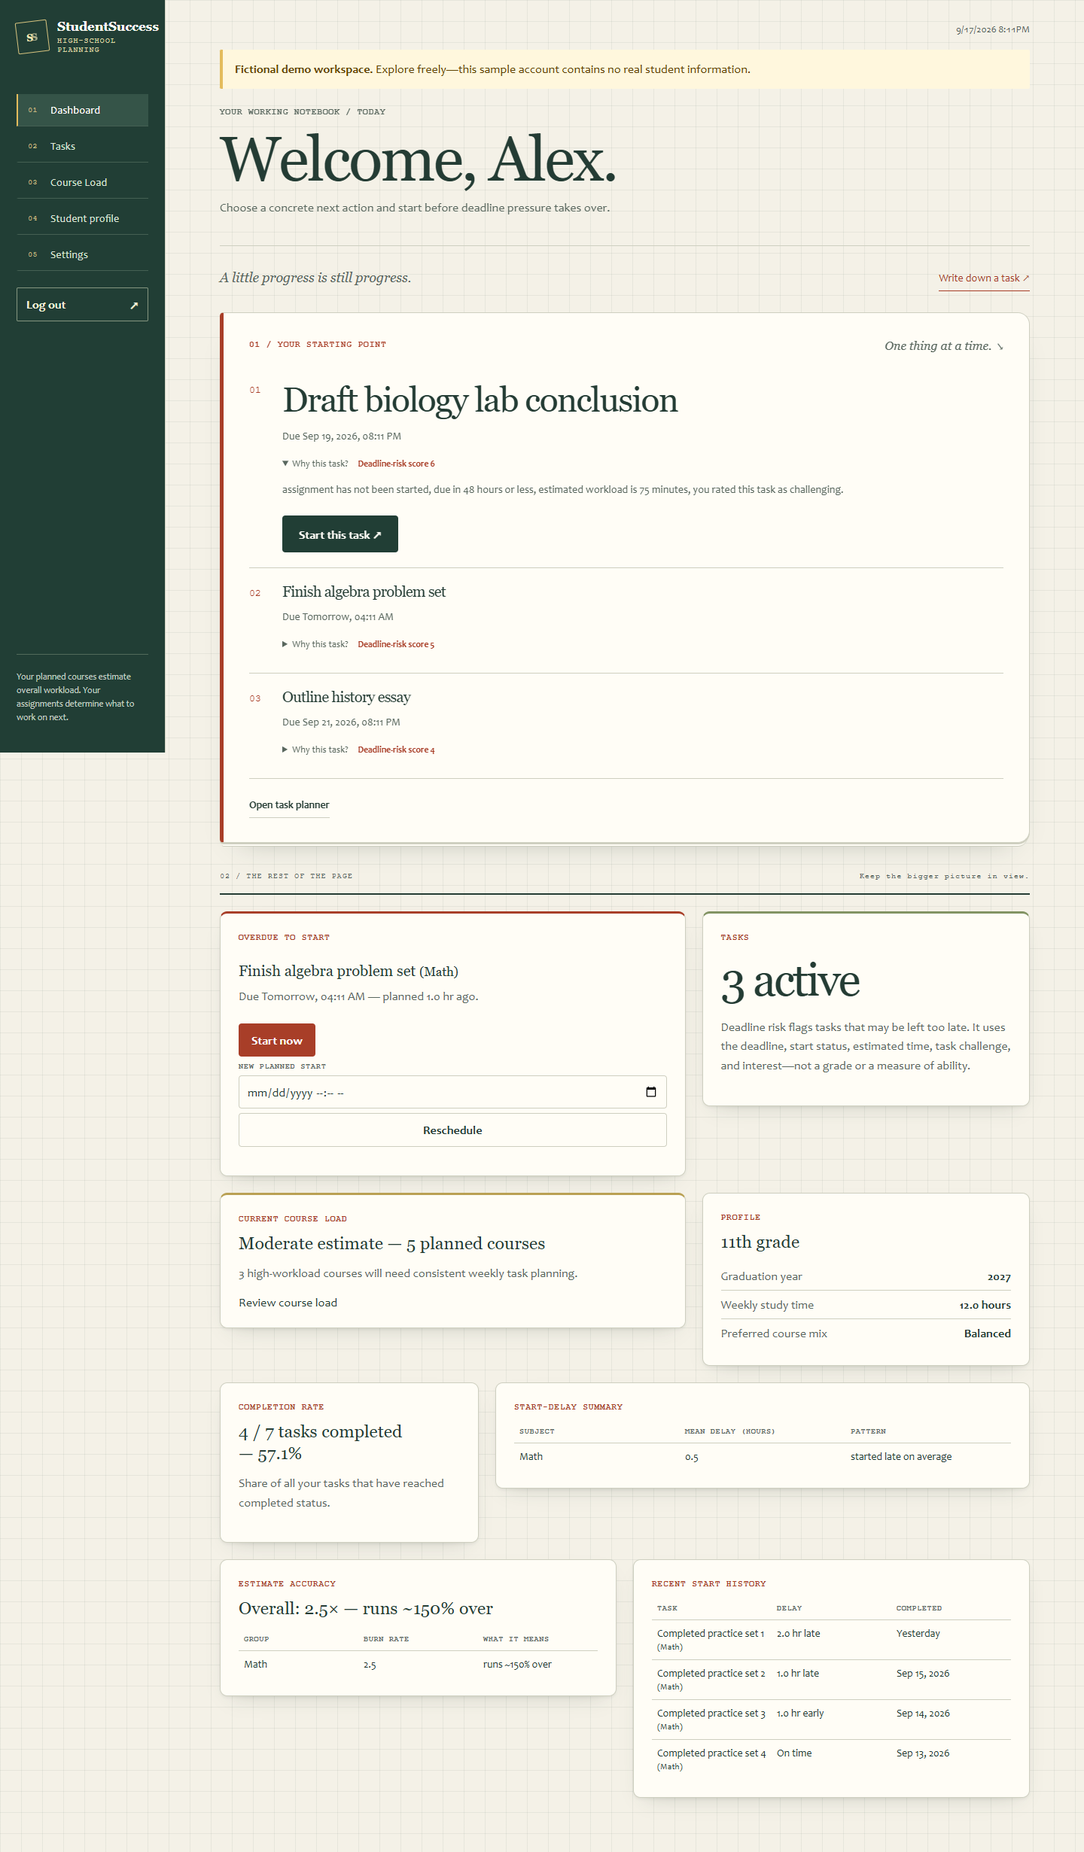
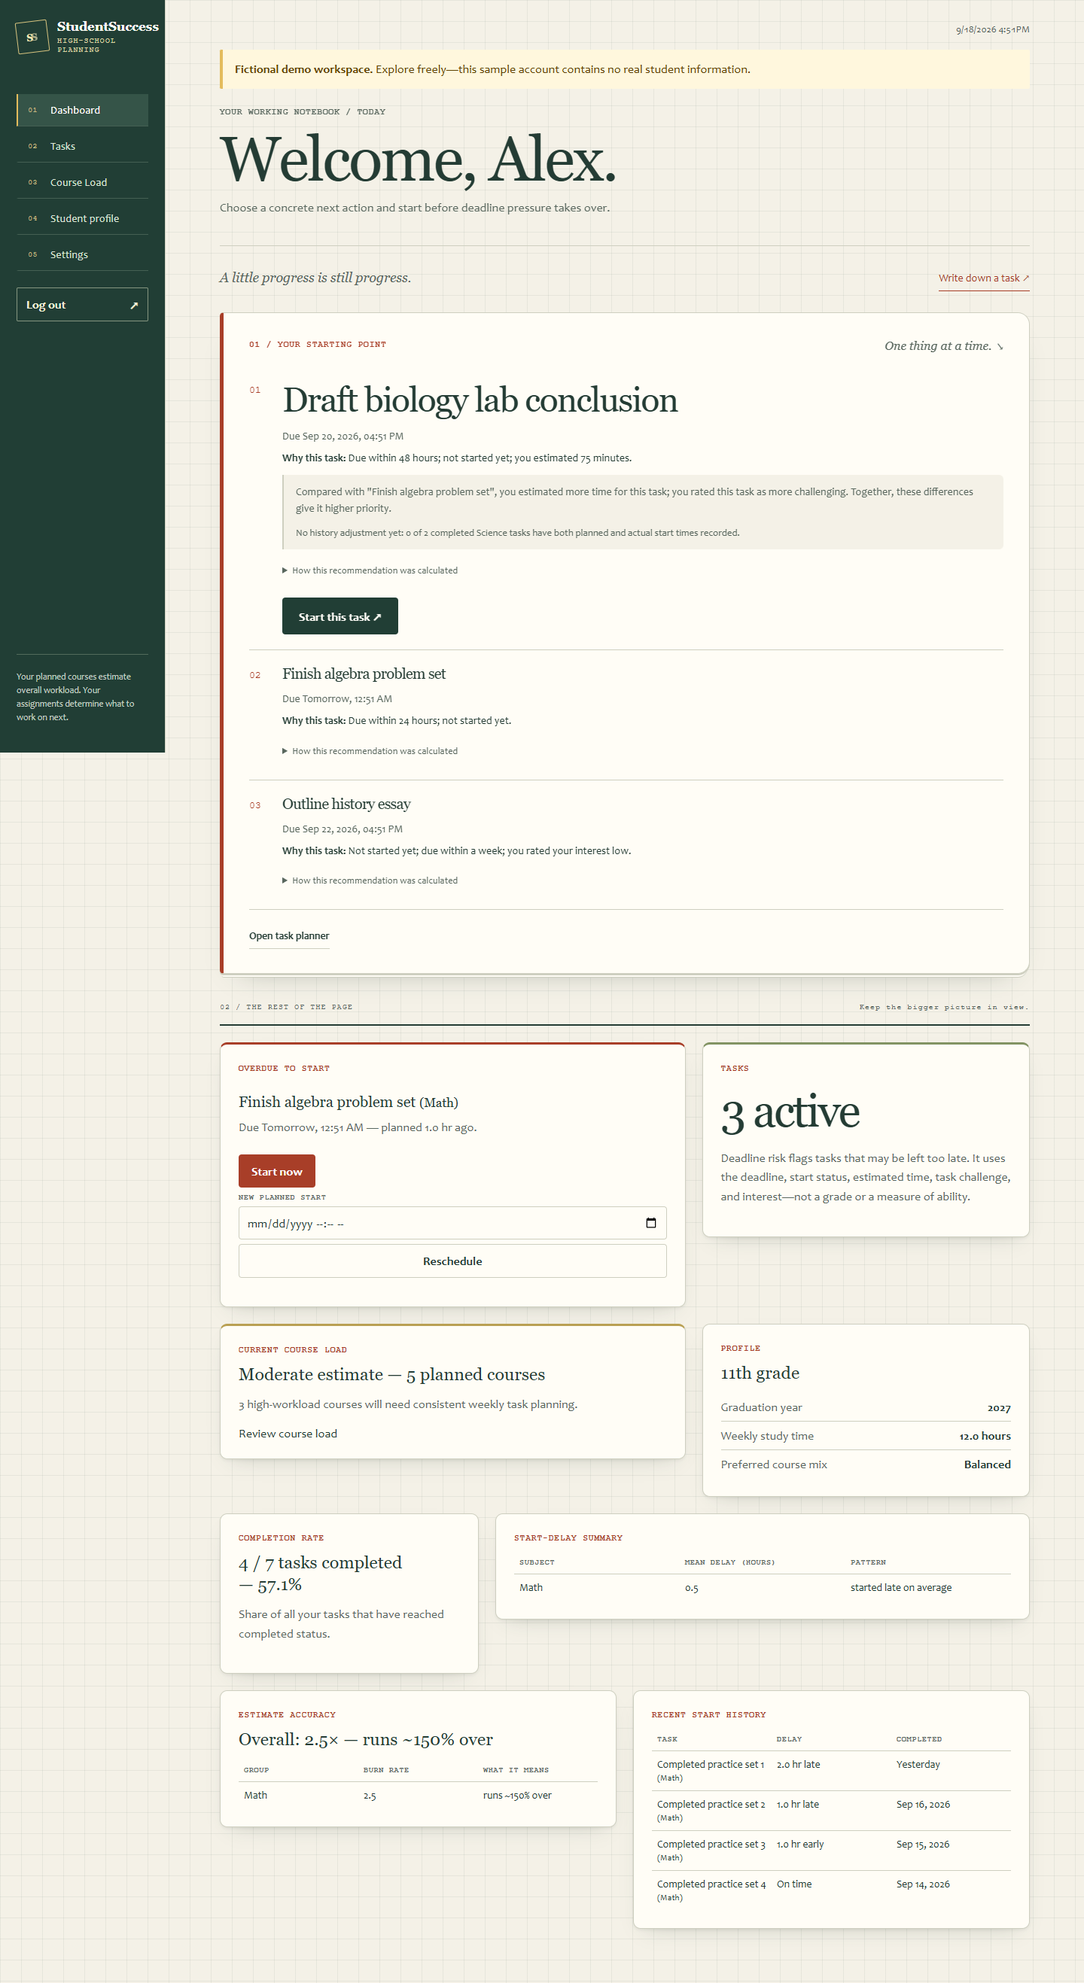
Explain task recommendations with comparisons and visible history context

diff --git a/templates/dashboard.html b/templates/dashboard.html
@@ -79,7 +79,9 @@
               <li class="priority-item">
                 <h2>{{ row.task.title }}</h2>
                 <p class="task-deadline">Due {{ row.due_at_display }}</p>
-                <details class="priority-reasons"{% if loop.first %} open{% endif %}><summary>Why this task? <span class="priority-score">Deadline-risk score {{ row.score }}</span></summary><p>{% if row.reasons %}{{ row.reasons|join(", ") }}.{% endif %}{% if settings.recommendation_tone == 'encouraging' %} You can start with one small step.{% elif settings.recommendation_tone == 'direct' %} Start this now.{% endif %}</p></details>
+                <p class="recommendation-brief"><strong>Why this task:</strong> {{ row.short_reason }}{% if settings.recommendation_tone == 'encouraging' %} You can start with one small step.{% elif settings.recommendation_tone == 'direct' %} Start this now.{% endif %}</p>
+                {% if loop.first %}<div class="recommendation-context">{% if row.comparison_note %}<p>{{ row.comparison_note }}</p>{% endif %}<p class="history-explanation">{{ row.history_note }}</p></div>{% endif %}
+                <details class="priority-reasons"><summary>How this recommendation was calculated</summary><p>Deadline-risk score: <strong>{{ row.score }}</strong> = {{ row.base_score }} from this task + {{ row.bonus }} from start history. Higher totals come first; an earlier deadline breaks a tie. This is a planning signal, not a grade or a prediction.</p><ul class="score-breakdown">{% for factor in row.factors %}<li><span>{{ factor.reason }}</span><strong>+{{ factor.points }}</strong></li>{% else %}<li>No added priority points.</li>{% endfor %}</ul>{% if not loop.first %}<p>{{ row.history_note }}</p>{% endif %}<p class="scoring-method">History adds 1 point when average starting delay exceeds 1 hour, or 2 when it exceeds 4 hours, after at least 2 completed tasks with both start times in the same subject or task type. These are fixed rules using your recorded history, not AI learning.</p></details>
                 {% if loop.first and row.task.status == 'not_started' %}<form class="start-next-task" method="post" action="{{ url_for('tasks.start_task', task_id=row.task.id) }}"><input type="hidden" name="redirect_to" value="dashboard"><button type="submit" class="button">Start this task <span aria-hidden="true">&#8599;</span></button></form>{% elif loop.first and row.task.status == 'in_progress' %}<p class="in-progress-note">In progress. You've made a beginning.</p>{% endif %}
               </li>
             {% endfor %}

diff --git a/static/css/depth.css b/static/css/depth.css
@@ -50,3 +50,13 @@
 @media(max-width:680px) { .settings-workspace main { width:calc(100% - 28px); } .settings-workspace .fields,.settings-workspace .account-grid { grid-template-columns:1fr; } .settings-toolbar { padding:10px; gap:10px; } .settings-toolbar>span { font-size:.9rem; } .settings-toolbar .primary { padding:10px; } .notebook-dashboard .grid>.card,.notebook-dashboard .grid>.card-tasks { padding:18px; } .notebook-dashboard .grid { gap:16px; } .notebook-dashboard .sidebar-logout { margin-top:12px; } }
 @media(prefers-reduced-motion:reduce) { .desk-scene .start-lab,.desk-scene.is-arranged .start-lab { transform:none; } }
 [data-motion="reduced"] .desk-scene .start-lab { transform:none; }
+/* Recommendation explanations keep the arithmetic available without leading with it. */
+.recommendation-context { grid-column:2; min-width:0; padding:12px 16px; border-left:2px solid var(--line); background:var(--paper); border-radius:0 6px 6px 0; }
+.notebook-dashboard .priority-item .recommendation-brief { color:var(--ink); line-height:1.6; }
+.notebook-dashboard .priority-item .recommendation-context p { line-height:1.6; margin:0; }
+.notebook-dashboard .priority-item .recommendation-context .history-explanation { margin-top:10px; font-size:.8rem; }
+.score-breakdown { margin:10px 0; padding:0; list-style:none; }
+.score-breakdown li { display:flex; justify-content:space-between; gap:16px; padding:8px 0; border-bottom:1px solid var(--line); font-size:.85rem; }
+.score-breakdown li strong { white-space:nowrap; }
+.priority-reasons .scoring-method { font-size:.8rem; }
+@media(max-width:680px) { .recommendation-context { padding:10px; } }

diff --git a/tests/test_recommendation_explanations.py b/tests/test_recommendation_explanations.py
@@ -1,0 +1,83 @@
+from datetime import datetime, timedelta, timezone
+from types import SimpleNamespace
+
+from services.procrastination_service import explain_procrastination_risk
+from services.suggestion_service import get_suggested_tasks
+from services.recommendation_explanations import explain_recommendations
+
+
+NOW = datetime(2026, 9, 18, 12, tzinfo=timezone.utc)
+
+
+def task(title="Assignment", **changes):
+    values = dict(title=title, status="not_started", subject="Math", task_type=None,
+                  due_at=NOW + timedelta(hours=12), estimated_minutes=30,
+                  difficulty="low", interest_level="high", started_at=None,
+                  planned_start_at=None)
+    values.update(changes)
+    return SimpleNamespace(**values)
+
+
+def explain(tasks):
+    return explain_recommendations(get_suggested_tasks(tasks, now=NOW), tasks)
+
+
+def test_factor_totals_and_existing_score_rules():
+    record = task(due_at=NOW-timedelta(hours=1), estimated_minutes=120,
+                  difficulty="high", interest_level="low")
+    result = explain_procrastination_risk(record, now=NOW)
+    assert result["score"] == 10
+    assert sum(f["points"] for f in result["factors"]) == result["score"]
+    assert [f["reason"] for f in result["factors"]] == result["reasons"]
+
+
+def test_first_task_can_be_later_due_and_explanation_does_not_claim_earlier():
+    rows = explain([task("Soon", subject="English"), task("Long", due_at=NOW+timedelta(hours=30), estimated_minutes=120, difficulty="high")])
+    assert rows[0]["task"].title == "Long"
+    assert "estimated more time" in rows[0]["comparison_note"]
+    assert "earlier" not in rows[0]["comparison_note"]
+
+
+def test_equal_score_uses_deadline_and_exact_tie_does_not_invent_a_winner():
+    rows = explain([task("Later", due_at=NOW+timedelta(hours=20)), task("Soon")])
+    assert "deadline is earlier" in rows[0]["comparison_note"]
+    rows = explain([task("A"), task("B")])
+    assert "rules do not favor one" in rows[0]["comparison_note"]
+
+
+def test_history_nudge_names_qualifying_sample_and_can_change_order():
+    history = [task(status="completed", planned_start_at=NOW-timedelta(hours=8), started_at=NOW-timedelta(hours=2)) for _ in range(2)]
+    rows = explain(history+[task("English", subject="English"), task("Math", due_at=NOW+timedelta(hours=30))])
+    assert rows[0]["task"].title == "Math"
+    assert "2 completed Math tasks" in rows[0]["history_note"]
+    assert "6.0 hours late" in rows[0]["history_note"]
+    assert "your recorded start history" in rows[0]["comparison_note"]
+    assert sum(f["points"] for f in rows[0]["factors"]) == rows[0]["score"]
+
+
+def test_missing_timestamps_and_other_subjects_do_not_count():
+    rows = explain([task(status="completed"), task(status="completed", subject="English", planned_start_at=NOW, started_at=NOW), task()])
+    assert "0 of 2 completed Math tasks" in rows[0]["history_note"]
+    assert "only active task" in rows[0]["comparison_note"]
+
+
+def test_sufficient_on_time_history_is_distinct_from_no_history():
+    history = [task(status="completed", planned_start_at=NOW, started_at=NOW) for _ in range(2)]
+    row = explain(history+[task()])[0]
+    assert "History checked: 2" in row["history_note"]
+    assert "no extra priority nudge" in row["history_note"]
+    assert row["bonus"] == 0
+
+
+def test_dashboard_brief_and_score_disclosure(authed_client):
+    from tests.test_course_routes import complete_profile
+    complete_profile(authed_client)
+    authed_client.post('/tasks', data={
+        'title':'Sample essay', 'due_at':'2027-01-01T12:00', 'estimated_minutes':'60',
+        'difficulty':'high', 'interest_level':'medium', 'nonpersonal_confirmed':'yes',
+    })
+    response = authed_client.get('/dashboard')
+    assert b'Why this task:' in response.data
+    assert b'<details class="priority-reasons">' in response.data
+    assert b'No history adjustment yet' in response.data
+    assert b'not AI learning' in response.data

diff --git a/services/procrastination_service.py b/services/procrastination_service.py
@@ -17,46 +17,9 @@ def explain_procrastination_risk(task, now=None):
             "reasons": ["task is already completed"],
         }
 
-    score = 0
-    reasons = []
-    due_at = _as_utc(task.due_at)
-    hours_until_due = (due_at - now).total_seconds() / 3600
-
-    if task.started_at is None:
-        score += 2
-        reasons.append("assignment has not been started")
-
-    if hours_until_due < 0:
-        score += 4
-        reasons.append("deadline has passed")
-    elif hours_until_due <= 24:
-        score += 3
-        reasons.append("due in 24 hours or less")
-    elif hours_until_due <= 48:
-        score += 2
-        reasons.append("due in 48 hours or less")
-    elif hours_until_due <= 168:
-        score += 1
-        reasons.append("due within one week")
-
-    if task.estimated_minutes >= 120:
-        score += 2
-        reasons.append(
-            f"estimated workload is {task.estimated_minutes} minutes"
-        )
-    elif task.estimated_minutes >= 60:
-        score += 1
-        reasons.append(
-            f"estimated workload is {task.estimated_minutes} minutes"
-        )
-
-    if task.difficulty == "high":
-        score += 1
-        reasons.append("you rated this task as challenging")
-
-    if task.interest_level == "low":
-        score += 1
-        reasons.append("you rated your interest in this task as low")
+    factors = priority_factors(task, now)
+    score = sum(factor["points"] for factor in factors)
+    reasons = [factor["reason"] for factor in factors]
 
     if score >= 7:
         level = "HIGH"
@@ -68,8 +31,36 @@ def explain_procrastination_risk(task, now=None):
     if not reasons:
         reasons.append("no current risk signals")
 
-    return {"level": level, "score": score, "reasons": reasons}
+    return {"level": level, "score": score, "reasons": reasons, "factors": factors}
 
 
 def calculate_procrastination_risk(task, now=None):
     return explain_procrastination_risk(task, now=now)["level"]
+
+
+def priority_factors(task, now):
+    """The single source of point contributions used for scoring and explanations."""
+    if task.status == "completed":
+        return []
+    factors = []
+    def add(key, label, points, reason, short):
+        factors.append(dict(key=key, label=label, points=points, reason=reason, short=short))
+    hours = (_as_utc(task.due_at) - _as_utc(now)).total_seconds() / 3600
+    if task.started_at is None:
+        add("start", "Not started", 2, "assignment has not been started", "not started yet")
+    if hours < 0:
+        add("deadline", "Deadline", 4, "deadline has passed", "the deadline has passed")
+    elif hours <= 24:
+        add("deadline", "Deadline", 3, "due in 24 hours or less", "due within 24 hours")
+    elif hours <= 48:
+        add("deadline", "Deadline", 2, "due in 48 hours or less", "due within 48 hours")
+    elif hours <= 168:
+        add("deadline", "Deadline", 1, "due within one week", "due within a week")
+    if task.estimated_minutes >= 60:
+        add("effort", "Estimated duration", 2 if task.estimated_minutes >= 120 else 1,
+            f"estimated workload is {task.estimated_minutes} minutes", f"you estimated {task.estimated_minutes} minutes")
+    if task.difficulty == "high":
+        add("challenge", "Your challenge rating", 1, "you rated this task as challenging", "you rated it challenging")
+    if task.interest_level == "low":
+        add("interest", "Your interest rating", 1, "you rated your interest in this task as low", "you rated your interest low")
+    return factors

diff --git a/services/recommendation_explanations.py b/services/recommendation_explanations.py
@@ -1,0 +1,50 @@
+"""Student-facing explanations of existing scores, with no changes to ranking."""
+from collections import Counter
+from services import delay_service
+
+
+def explain_recommendations(rows, tasks):
+    counts = Counter(delay_service.group_key(task) for task in tasks
+                     if task.status == "completed" and delay_service.start_delay(task) is not None)
+    averages = delay_service.average_start_delay_by_group(tasks)
+    for index, row in enumerate(rows):
+        # Prefer the largest actual contributions; put deadlines first on a tie.
+        factors = sorted(row["factors"], key=lambda f: (-f["points"], f["key"] != "deadline"))
+        words = [factor["short"] for factor in factors[:3]]
+        row["short_reason"] = ("; ".join(words).capitalize() + ".") if words else "No extra priority signals apply to this task right now."
+        group = delay_service.group_key(row["task"])
+        count = counts[group]
+        label = "tasks without a subject or type" if group == "ungrouped" else f"{group} tasks"
+        if count < delay_service.MINIMUM_SAMPLE:
+            row["history_note"] = f"No history adjustment yet: {count} of {delay_service.MINIMUM_SAMPLE} completed {label} have both planned and actual start times recorded."
+        elif row["bonus"]:
+            avg = averages[group]
+            row["history_note"] = f"Your past starts count: across {count} completed {label}, you started {avg:.1f} hours late on average. This adds a small priority nudge (+{row['bonus']})."
+        else:
+            row["history_note"] = f"History checked: {count} completed {label}. Average start delay is at most one hour, so no extra priority nudge is added."
+        row["comparison_note"] = None
+        if index + 1 >= len(rows):
+            if len(rows) == 1:
+                row["comparison_note"] = "This is your only active task, so there is no other task to rank it against."
+            continue
+        other = rows[index + 1]
+        title = other["task"].title
+        if row["score"] == other["score"]:
+            if delay_service._as_utc(row["task"].due_at) < delay_service._as_utc(other["task"].due_at):
+                row["comparison_note"] = f'Tied in priority with "{title}". This comes first because its deadline is earlier.'
+            else:
+                row["comparison_note"] = f'The same priority and deadline as "{title}". The rules do not favor one over the other; either is a reasonable starting point.'
+        else:
+            other_points = {factor["key"]: factor["points"] for factor in other["factors"]}
+            phrases = {
+                "deadline": "its deadline is in a more urgent time window",
+                "start": "this task has not been started yet, while the other has",
+                "effort": "you estimated more time for this task",
+                "challenge": "you rated this task as more challenging",
+                "interest": "you rated your interest in this task lower",
+                "history": "your recorded start history gives this task a larger priority nudge",
+            }
+            advantages = [phrases[factor["key"]] for factor in factors
+                          if factor["points"] > other_points.get(factor["key"], 0)]
+            row["comparison_note"] = f'Compared with "{title}", ' + "; ".join(advantages) + ". Together, these differences give it higher priority."
+    return rows

diff --git a/routes/main_routes.py b/routes/main_routes.py
@@ -15,6 +15,7 @@ from services import (
 )
 from services.auth_service import login_required
 from services.settings_service import get_or_create_settings
+from services.recommendation_explanations import explain_recommendations
 
 
 main_bp = Blueprint("main", __name__)
@@ -212,6 +213,7 @@ def dashboard():
             1 for task in all_tasks if task.status != "completed"
         )
         prioritized_tasks = suggestion_service.get_suggested_tasks(all_tasks)
+        explain_recommendations(prioritized_tasks, all_tasks)
         for row in prioritized_tasks:
             row["due_at_display"] = _format_local(
                 row["task"].due_at, settings, include_time=True

diff --git a/services/suggestion_service.py b/services/suggestion_service.py
@@ -94,6 +94,10 @@ def get_suggested_tasks(tasks, now=None):
                 "base_score": base_row["score"],
                 "bonus": bonus,
                 "reasons": reasons,
+                "factors": list(base_row["factors"]) + ([{
+                    "key": "history", "label": "Your start history", "points": bonus,
+                    "reason": reason, "short": "past starts suggest giving this more attention",
+                }] if bonus else []),
             }
         )
 

diff --git a/services/priority_service.py b/services/priority_service.py
@@ -39,6 +39,7 @@ def get_prioritized_tasks(tasks, now=None):
                 "task": task,
                 "score": risk["score"],
                 "reasons": risk["reasons"],
+                "factors": risk.get("factors", []),
             }
         )
 

diff --git a/docs/screenshots/README.md b/docs/screenshots/README.md
@@ -2,7 +2,7 @@
 
 [Back to the project README](../../README.md)
 
-Captured September 17, 2026; course explorer and comparison refreshed September 18, 2026. Images are from the current application running locally with isolated fictional demo data. Desktop images are 1440 pixels wide; mobile images are 390 pixels wide. These captures show the design deployed at [StudentSuccess](https://studentsuccess.onrender.com/). Open any image at full size for detail.
+Captured September 17, 2026; course explorer, comparison, and dashboard views refreshed September 18, 2026. Images are from the current application running locally with isolated fictional demo data. Desktop images are 1440 pixels wide; mobile images are 390 pixels wide. These captures show the design deployed at [StudentSuccess](https://studentsuccess.onrender.com/). Open any image at full size for detail.
 
 Still images do not show motion: try the landing-page example on the live site to see the paper tilt, note arrangement, and paper-plane animation.
 
@@ -20,9 +20,9 @@ The example notes settle into a starting plan. Choose a problem set, essay, or e
 
 ## Dashboard
 
-One prominent next task with a direct Start button, expandable reasons, and separate summary cards. Desktop navigation and logout remain reachable while scrolling.
+A short explanation of the next task, a comparison with the runner-up, visible history context, and an expandable score breakdown. Start the task directly; desktop navigation and logout remain reachable while scrolling.
 
-[![Dashboard: One prominent next task with a direct Start button, expandable reasons, and separate summary cards. Desktop navigation and logout remain reachable while scrolling.](dashboard.png)](dashboard.png)
+[![Dashboard: A short explanation of the next task, a comparison with the runner-up, visible history context, and an expandable score breakdown. Start the task directly; desktop navigation and logout remain reachable while scrolling.](dashboard.png)](dashboard.png)
 
 ## Task planner
 

diff --git a/docs/architecture.md b/docs/architecture.md
@@ -35,7 +35,7 @@ The optional `/planner` workspace stores its plan in browser localStorage. It do
 
 ## Recommendations
 
-Task priority starts with explicit deadline, effort, difficulty, interest, and start-status rules. History-aware suggestions can add a small bonus based on recorded starting patterns. The interface presents reasons alongside recommendations. These services do not use machine learning or an external AI service.
+Task priority starts with explicit deadline, effort, difficulty, interest, and start-status rules. History-aware suggestions can add a small bonus based on recorded starting patterns. The scorer returns the same point contributions used by the dashboard explanations. Each recommendation has a short reason; the leading task is compared with the runner-up, including explicit ties. History notes show the number of completed tasks with both start timestamps in the same group and distinguish insufficient history, no adjustment, and an applied bonus. An expandable breakdown shows all contributing points. These services do not use machine learning or an external AI service.
 
 
 ## Interface and screenshot checks

diff --git a/README.md b/README.md
@@ -19,7 +19,7 @@ StudentSuccess helps high-school students plan a manageable course load and deci
 ## The current workspace
 
 - **A notebook with depth.** Graph paper, layered paper edges, folded corners, soft shadows, and a paper-plane illustration. The landing-page example responds to pointer movement and lets you turn a large assignment into a small first step.
-- **A clearer next action.** Start the recommended task directly from the dashboard, expand its reasons, and review the rest of your workload in separate cards.
+- **A clearer next action.** See a short reason for each recommendation, why the top task comes before the next, and when recorded start history adds a priority nudge. Expand the point breakdown or start the task directly.
 - **Less scrolling.** Settings uses two columns on wide screens with a sticky Save button. Logout sits below dashboard navigation, and the desktop sidebar stays in view.
 - **Your preferred pace.** Light, dark, and high-contrast appearances; adjustable text, spacing, and focus; reduced-motion support; and expandable summaries on mobile.
 
